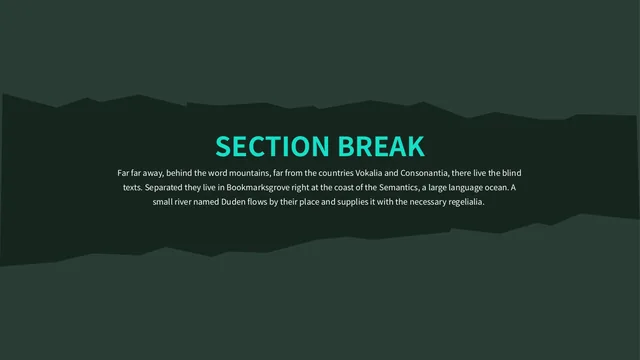
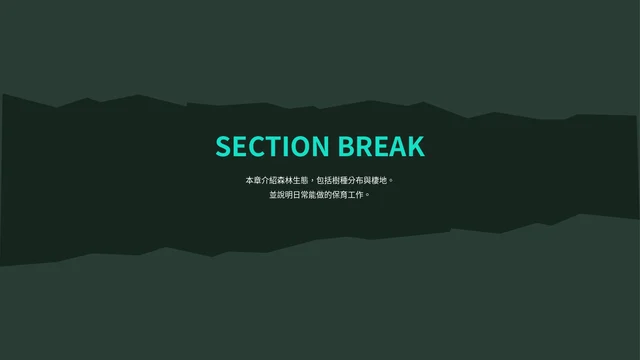
templates: 修正簡報風格庫色塊邊框、註記對齊與 P003 假字
淡色色塊加統一細邊框；材質註記改成每張卡固定一列；1280 最後一列孤卡置中；P003 縮圖假字換成繁中示範文字。

Changed region(s): [[0.1875, 0.4583, 0.8125, 0.5806]]

diff --git a/templates/index.html b/templates/index.html
@@ -1065,10 +1065,10 @@ html[data-lib=components]{scroll-padding-top:calc(var(--library-h) + var(--toc-h
 #lib-slides .ppt-cats li{font-size:0.8125rem;line-height:1.5;padding:1px 8px;border-radius:var(--r-xs);background:var(--sage-soft);color:var(--sage-deep);white-space:nowrap}
 #lib-slides .ppt-colors{display:grid;grid-template-columns:repeat(3,1fr);gap:8px;list-style:none;margin:0;padding:0}#lib-slides .ppt-colors.merged{grid-template-columns:1fr 1fr}
 #lib-slides .ppt-colors li{display:flex;flex-direction:column;gap:4px;min-width:0}
-#lib-slides .sw{height:36px;border-radius:var(--r-sm);box-shadow:inset 0 0 0 1px rgba(40,42,36,.12)}
+#lib-slides .sw{height:36px;border-radius:var(--r-sm);box-shadow:inset 0 0 0 1px rgba(0,0,0,.18)}
 #lib-slides .ppt-colors b{font-size:0.75rem;font-weight:500;color:var(--mute);line-height:1.4}
 #lib-slides .ppt-colors code{font:500 0.8125rem/1.4 var(--font);font-variant-numeric:tabular-nums;color:var(--ink)}
-#lib-slides .ppt-colors small{font-size:0.75rem;color:var(--mute);line-height:1.4;display:block;min-height:1.4em}
+#lib-slides .ppt-mat{font-size:0.75rem;color:var(--mute);line-height:1.4;min-height:1.4em;margin:0;white-space:nowrap;overflow:hidden;text-overflow:ellipsis}
 #lib-slides .ppt-info{display:flex;flex-direction:column;gap:6px;margin:0}
 #lib-slides .ppt-info div{display:flex;gap:8px;font-size:0.875rem;line-height:1.5}
 #lib-slides .ppt-info dt{flex:none;color:var(--mute)}
@@ -1076,6 +1076,7 @@ html[data-lib=components]{scroll-padding-top:calc(var(--library-h) + var(--toc-h
 @media(min-width:800px){
   #lib-slides .wrap{padding-left:max(24px,env(safe-area-inset-left));padding-right:max(24px,env(safe-area-inset-right))}
   #lib-slides .ppt-grid{grid-template-columns:repeat(3,minmax(0,1fr));gap:20px}
+  #lib-slides .ppt-card:last-child:nth-child(3n+1){grid-column:2}
 }
 </style></head><body>
 <header class="library-header library-wrap"><div class="library-heading"><div class="library-tabs-bar"><div class="library-tabs" role="tablist" aria-label="切換資料庫"><span class="library-indicator" aria-hidden="true"></span><button type="button" role="tab" id="lib-tab-templates" aria-controls="lib-templates" aria-selected="true" tabindex="0" data-library="templates"><span class="library-label" data-label="模板">模板</span></button><button type="button" role="tab" id="lib-tab-features" aria-controls="lib-features" aria-selected="false" tabindex="-1" data-library="features"><span class="library-label" data-label="功能">功能</span></button><button type="button" role="tab" id="lib-tab-components" aria-controls="lib-components" aria-selected="false" tabindex="-1" data-library="components"><span class="library-label" data-label="元件">元件</span></button><button type="button" role="tab" id="lib-tab-slides" aria-controls="lib-slides" aria-selected="false" tabindex="-1" data-library="slides"><span class="library-label" data-label="簡報">簡報</span></button></div></div><h1 id="lib-title">我喜歡的網頁模板</h1><p class="library-guide"><span class="guide-unit">模板看整頁</span>、<span class="guide-unit">功能選服務</span>、<span class="guide-unit">元件選互動</span>、<span class="guide-unit">簡報選主調</span></p></div></header>
@@ -2197,91 +2198,104 @@ html[data-lib=components]{scroll-padding-top:calc(var(--library-h) + var(--toc-h
     <div class="ppt-thumbs"><img src="ppt-styles/P001-cover.webp" width="640" height="360" loading="lazy" alt="黑板風封面縮圖"><img src="ppt-styles/P001-inner.webp" width="640" height="360" loading="lazy" alt="黑板風內頁縮圖"></div>
     <h2>黑板風<span class="code">P001-黑板風</span></h2>
     <ul class="ppt-cats" aria-label="適合類別"><li>學習教材</li><li>產品或網站介紹</li></ul>
-    <ul class="ppt-colors" aria-label="三個色碼"><li><span class="sw" style="background:#F5F5F0"></span><b>主色</b><code>#F5F5F0</code><small></small></li><li><span class="sw" style="background:#FAE46E"></span><b>強調色</b><code>#FAE46E</code><small></small></li><li><span class="sw" style="background:#304241"></span><b>底色</b><code>#304241</code><small>黑板照片</small></li></ul>
+    <ul class="ppt-colors" aria-label="三個色碼"><li><span class="sw" style="background:#F5F5F0"></span><b>主色</b><code>#F5F5F0</code></li><li><span class="sw" style="background:#FAE46E"></span><b>強調色</b><code>#FAE46E</code></li><li><span class="sw" style="background:#304241"></span><b>底色</b><code>#304241</code></li></ul>
+    <p class="ppt-mat">黑板照片</p>
     <dl class="ppt-info"><div><dt>字型</dt><dd>霞鶩文楷 TC・可內嵌（目前未內嵌）</dd></div><div><dt>版型</dt><dd><span class="nw">封面</span>、<span class="nw">清單</span>、<span class="nw">大數字</span>、<span class="nw">圖文</span>、<span class="nw">收尾</span></dd></div><div><dt>用過</dt><dd>會考複習網站介紹</dd></div></dl>
   </li>
   <li class="ppt-card">
     <div class="ppt-thumbs"><img src="ppt-styles/P002-cover.webp" width="640" height="360" loading="lazy" alt="藍金封面縮圖"><img src="ppt-styles/P002-inner.webp" width="640" height="360" loading="lazy" alt="藍金內頁縮圖"></div>
     <h2>藍金<span class="code">P002-藍金</span></h2>
     <ul class="ppt-cats" aria-label="適合類別"><li>家人朋友介紹／生活</li><li>產品或網站介紹</li></ul>
-    <ul class="ppt-colors merged" aria-label="色碼"><li><span class="sw" style="background:#0D1A33"></span><b>主色＝底色</b><code>#0D1A33</code><small></small></li><li><span class="sw" style="background:#F2B33D"></span><b>強調色</b><code>#F2B33D</code><small></small></li></ul>
+    <ul class="ppt-colors merged" aria-label="色碼"><li><span class="sw" style="background:#0D1A33"></span><b>主色＝底色</b><code>#0D1A33</code></li><li><span class="sw" style="background:#F2B33D"></span><b>強調色</b><code>#F2B33D</code></li></ul>
+    <p class="ppt-mat"></p>
     <dl class="ppt-info"><div><dt>字型</dt><dd>標題 Noto Serif CJK TC，內文 Noto Sans CJK TC・可內嵌（目前未內嵌）</dd></div><div><dt>版型</dt><dd><span class="nw">封面</span>、<span class="nw">目錄</span>、<span class="nw">圖文</span>、<span class="nw">清單</span>、<span class="nw">大數字</span>、<span class="nw">大標語</span>、<span class="nw">收尾</span></dd></div><div><dt>用過</dt><dd>TERRA 介紹（製作中）</dd></div></dl>
   </li>
   <li class="ppt-card">
     <div class="ppt-thumbs"><img src="ppt-styles/P003-cover.webp" width="640" height="360" loading="lazy" alt="森林青綠封面縮圖"><img src="ppt-styles/P003-inner.webp" width="640" height="360" loading="lazy" alt="森林青綠內頁縮圖"></div>
     <h2>森林青綠<span class="code">P003-森林青綠</span></h2>
     <ul class="ppt-cats" aria-label="適合類別"><li>家人朋友介紹／生活</li><li>活動或宣傳</li><li>產品或網站介紹</li></ul>
-    <ul class="ppt-colors merged" aria-label="色碼"><li><span class="sw" style="background:#16261F"></span><b>主色＝底色</b><code>#16261F</code><small></small></li><li><span class="sw" style="background:#14E0C8"></span><b>強調色</b><code>#14E0C8</code><small></small></li></ul>
+    <ul class="ppt-colors merged" aria-label="色碼"><li><span class="sw" style="background:#16261F"></span><b>主色＝底色</b><code>#16261F</code></li><li><span class="sw" style="background:#14E0C8"></span><b>強調色</b><code>#14E0C8</code></li></ul>
+    <p class="ppt-mat"></p>
     <dl class="ppt-info"><div><dt>字型</dt><dd>Noto Sans CJK TC・可內嵌（目前未內嵌）</dd></div><div><dt>版型</dt><dd><span class="nw">封面</span>、<span class="nw">圖文</span>、<span class="nw">清單</span>、<span class="nw">圖表</span>、<span class="nw">大數字</span>、<span class="nw">表格</span>、<span class="nw">收尾</span></dd></div><div><dt>用過</dt><dd>TERRA 候選，未採用</dd></div></dl>
   </li>
   <li class="ppt-card">
     <div class="ppt-thumbs"><img src="ppt-styles/P004-cover.webp" width="640" height="360" loading="lazy" alt="Vega 多彩動畫封面縮圖"><img src="ppt-styles/P004-inner.webp" width="640" height="360" loading="lazy" alt="Vega 多彩動畫內頁縮圖"></div>
     <h2>Vega 多彩動畫<span class="code">P004-Vega多彩</span></h2>
     <ul class="ppt-cats" aria-label="適合類別"><li>產品或網站介紹</li><li>活動或宣傳</li></ul>
-    <ul class="ppt-colors" aria-label="三個色碼"><li><span class="sw" style="background:#08ABDD"></span><b>主色</b><code>#08ABDD</code><small></small></li><li><span class="sw" style="background:#FC4A7E"></span><b>強調色</b><code>#FC4A7E</code><small></small></li><li><span class="sw" style="background:#F7F7F7"></span><b>底色</b><code>#F7F7F7</code><small></small></li></ul>
+    <ul class="ppt-colors" aria-label="三個色碼"><li><span class="sw" style="background:#08ABDD"></span><b>主色</b><code>#08ABDD</code></li><li><span class="sw" style="background:#FC4A7E"></span><b>強調色</b><code>#FC4A7E</code></li><li><span class="sw" style="background:#F7F7F7"></span><b>底色</b><code>#F7F7F7</code></li></ul>
+    <p class="ppt-mat"></p>
     <dl class="ppt-info"><div><dt>字型</dt><dd>Noto Sans CJK TC・可內嵌</dd></div><div><dt>版型</dt><dd><span class="nw">封面</span>、<span class="nw">目錄</span>、<span class="nw">圖文</span>、<span class="nw">清單</span>、<span class="nw">大標語</span></dd></div><div><dt>用過</dt><dd>還沒用過</dd></div></dl>
   </li>
   <li class="ppt-card">
     <div class="ppt-thumbs"><img src="ppt-styles/P005-cover.webp" width="640" height="360" loading="lazy" alt="Procyon 深藍質感封面縮圖"><img src="ppt-styles/P005-inner.webp" width="640" height="360" loading="lazy" alt="Procyon 深藍質感內頁縮圖"></div>
     <h2>Procyon 深藍質感<span class="code">P005-Procyon深藍</span></h2>
     <ul class="ppt-cats" aria-label="適合類別"><li>工作報告／數據</li><li>產品或網站介紹</li></ul>
-    <ul class="ppt-colors" aria-label="三個色碼"><li><span class="sw" style="background:#17588F"></span><b>主色</b><code>#17588F</code><small></small></li><li><span class="sw" style="background:#89B5DC"></span><b>強調色</b><code>#89B5DC</code><small></small></li><li><span class="sw" style="background:#153053"></span><b>底色</b><code>#153053</code><small></small></li></ul>
+    <ul class="ppt-colors" aria-label="三個色碼"><li><span class="sw" style="background:#17588F"></span><b>主色</b><code>#17588F</code></li><li><span class="sw" style="background:#89B5DC"></span><b>強調色</b><code>#89B5DC</code></li><li><span class="sw" style="background:#153053"></span><b>底色</b><code>#153053</code></li></ul>
+    <p class="ppt-mat"></p>
     <dl class="ppt-info"><div><dt>字型</dt><dd>Noto Sans CJK TC・可內嵌</dd></div><div><dt>版型</dt><dd><span class="nw">封面</span>、<span class="nw">清單</span>、<span class="nw">圖示列</span>、<span class="nw">圖文</span>、<span class="nw">相片牆</span></dd></div><div><dt>用過</dt><dd>還沒用過</dd></div></dl>
   </li>
   <li class="ppt-card">
     <div class="ppt-thumbs"><img src="ppt-styles/P006-cover.webp" width="640" height="360" loading="lazy" alt="Canopus 霧面圓窗封面縮圖"><img src="ppt-styles/P006-inner.webp" width="640" height="360" loading="lazy" alt="Canopus 霧面圓窗內頁縮圖"></div>
     <h2>Canopus 霧面圓窗<span class="code">P006-Canopus霧面</span></h2>
     <ul class="ppt-cats" aria-label="適合類別"><li>家人朋友介紹／生活</li><li>工作報告／數據</li></ul>
-    <ul class="ppt-colors" aria-label="三個色碼"><li><span class="sw" style="background:#9DA079"></span><b>主色</b><code>#9DA079</code><small></small></li><li><span class="sw" style="background:#F9FCF7"></span><b>強調色</b><code>#F9FCF7</code><small>圓窗</small></li><li><span class="sw" style="background:#D5E5CA"></span><b>底色</b><code>#D5E5CA</code><small></small></li></ul>
+    <ul class="ppt-colors" aria-label="三個色碼"><li><span class="sw" style="background:#9DA079"></span><b>主色</b><code>#9DA079</code></li><li><span class="sw" style="background:#F9FCF7"></span><b>強調色</b><code>#F9FCF7</code></li><li><span class="sw" style="background:#D5E5CA"></span><b>底色</b><code>#D5E5CA</code></li></ul>
+    <p class="ppt-mat">圓窗</p>
     <dl class="ppt-info"><div><dt>字型</dt><dd>Noto Sans CJK TC・可內嵌</dd></div><div><dt>版型</dt><dd><span class="nw">封面</span>、<span class="nw">目錄</span>、<span class="nw">圖文</span>、<span class="nw">組織圖</span>、<span class="nw">大標語</span></dd></div><div><dt>用過</dt><dd>還沒用過</dd></div></dl>
   </li>
   <li class="ppt-card">
     <div class="ppt-thumbs"><img src="ppt-styles/P007-cover.webp" width="640" height="360" loading="lazy" alt="Sirius 清爽時間軸封面縮圖"><img src="ppt-styles/P007-inner.webp" width="640" height="360" loading="lazy" alt="Sirius 清爽時間軸內頁縮圖"></div>
     <h2>Sirius 清爽時間軸<span class="code">P007-Sirius時間軸</span></h2>
     <ul class="ppt-cats" aria-label="適合類別"><li>學習教材</li><li>工作報告／數據</li></ul>
-    <ul class="ppt-colors" aria-label="三個色碼"><li><span class="sw" style="background:#0596BB"></span><b>主色</b><code>#0596BB</code><small></small></li><li><span class="sw" style="background:#82BDCD"></span><b>強調色</b><code>#82BDCD</code><small></small></li><li><span class="sw" style="background:#FFFFFF"></span><b>底色</b><code>#FFFFFF</code><small></small></li></ul>
+    <ul class="ppt-colors" aria-label="三個色碼"><li><span class="sw" style="background:#0596BB"></span><b>主色</b><code>#0596BB</code></li><li><span class="sw" style="background:#82BDCD"></span><b>強調色</b><code>#82BDCD</code></li><li><span class="sw" style="background:#FFFFFF"></span><b>底色</b><code>#FFFFFF</code></li></ul>
+    <p class="ppt-mat"></p>
     <dl class="ppt-info"><div><dt>字型</dt><dd>Noto Sans CJK TC・可內嵌</dd></div><div><dt>版型</dt><dd><span class="nw">封面</span>、<span class="nw">清單</span>、<span class="nw">時間軸</span>、<span class="nw">圖文</span>、<span class="nw">大數字</span></dd></div><div><dt>用過</dt><dd>還沒用過</dd></div></dl>
   </li>
   <li class="ppt-card">
     <div class="ppt-thumbs"><img src="ppt-styles/P008-cover.webp" width="640" height="360" loading="lazy" alt="日式和風封面縮圖"><img src="ppt-styles/P008-inner.webp" width="640" height="360" loading="lazy" alt="日式和風內頁縮圖"></div>
     <h2>日式和風<span class="code">P008-日式和風</span></h2>
     <ul class="ppt-cats" aria-label="適合類別"><li>家人朋友介紹／生活</li><li>活動或宣傳</li></ul>
-    <ul class="ppt-colors" aria-label="三個色碼"><li><span class="sw" style="background:#AF4744"></span><b>主色</b><code>#AF4744</code><small></small></li><li><span class="sw" style="background:#4F6D76"></span><b>強調色</b><code>#4F6D76</code><small>浪紋</small></li><li><span class="sw" style="background:#F0F1F0"></span><b>底色</b><code>#F0F1F0</code><small></small></li></ul>
+    <ul class="ppt-colors" aria-label="三個色碼"><li><span class="sw" style="background:#AF4744"></span><b>主色</b><code>#AF4744</code></li><li><span class="sw" style="background:#4F6D76"></span><b>強調色</b><code>#4F6D76</code></li><li><span class="sw" style="background:#F0F1F0"></span><b>底色</b><code>#F0F1F0</code></li></ul>
+    <p class="ppt-mat">浪紋</p>
     <dl class="ppt-info"><div><dt>字型</dt><dd>標題 Noto Serif CJK TC，內文 Noto Sans CJK TC・可內嵌</dd></div><div><dt>版型</dt><dd><span class="nw">封面</span>、<span class="nw">目錄</span>、<span class="nw">分節</span>、<span class="nw">圖文</span>、<span class="nw">清單</span></dd></div><div><dt>用過</dt><dd>還沒用過</dd></div></dl>
   </li>
   <li class="ppt-card">
     <div class="ppt-thumbs"><img src="ppt-styles/P009-cover.webp" width="640" height="360" loading="lazy" alt="手繪工作匯報封面縮圖"><img src="ppt-styles/P009-inner.webp" width="640" height="360" loading="lazy" alt="手繪工作匯報內頁縮圖"></div>
     <h2>手繪工作匯報<span class="code">P009-手繪匯報</span></h2>
     <ul class="ppt-cats" aria-label="適合類別"><li>工作報告／數據</li></ul>
-    <ul class="ppt-colors" aria-label="三個色碼"><li><span class="sw" style="background:#343433"></span><b>主色</b><code>#343433</code><small>手繪線</small></li><li><span class="sw" style="background:#F9E8B7"></span><b>強調色</b><code>#F9E8B7</code><small></small></li><li><span class="sw" style="background:#F2F3F3"></span><b>底色</b><code>#F2F3F3</code><small></small></li></ul>
+    <ul class="ppt-colors" aria-label="三個色碼"><li><span class="sw" style="background:#343433"></span><b>主色</b><code>#343433</code></li><li><span class="sw" style="background:#F9E8B7"></span><b>強調色</b><code>#F9E8B7</code></li><li><span class="sw" style="background:#F2F3F3"></span><b>底色</b><code>#F2F3F3</code></li></ul>
+    <p class="ppt-mat">手繪線</p>
     <dl class="ppt-info"><div><dt>字型</dt><dd>Noto Sans CJK TC・可內嵌</dd></div><div><dt>版型</dt><dd><span class="nw">封面</span>、<span class="nw">目錄</span>、<span class="nw">清單</span>、<span class="nw">圖表</span>、<span class="nw">流程</span></dd></div><div><dt>用過</dt><dd>還沒用過</dd></div></dl>
   </li>
   <li class="ppt-card">
     <div class="ppt-thumbs"><img src="ppt-styles/P010-cover.webp" width="640" height="360" loading="lazy" alt="熱氣球教學課件封面縮圖"><img src="ppt-styles/P010-inner.webp" width="640" height="360" loading="lazy" alt="熱氣球教學課件內頁縮圖"></div>
     <h2>熱氣球教學課件<span class="code">P010-熱氣球教學</span></h2>
     <ul class="ppt-cats" aria-label="適合類別"><li>學習教材</li></ul>
-    <ul class="ppt-colors" aria-label="三個色碼"><li><span class="sw" style="background:#8EAE9F"></span><b>主色</b><code>#8EAE9F</code><small></small></li><li><span class="sw" style="background:#EB872A"></span><b>強調色</b><code>#EB872A</code><small></small></li><li><span class="sw" style="background:#FAEED6"></span><b>底色</b><code>#FAEED6</code><small></small></li></ul>
+    <ul class="ppt-colors" aria-label="三個色碼"><li><span class="sw" style="background:#8EAE9F"></span><b>主色</b><code>#8EAE9F</code></li><li><span class="sw" style="background:#EB872A"></span><b>強調色</b><code>#EB872A</code></li><li><span class="sw" style="background:#FAEED6"></span><b>底色</b><code>#FAEED6</code></li></ul>
+    <p class="ppt-mat"></p>
     <dl class="ppt-info"><div><dt>字型</dt><dd>標題 Noto Serif CJK TC，內文 Noto Sans CJK TC・可內嵌</dd></div><div><dt>版型</dt><dd><span class="nw">封面</span>、<span class="nw">目錄</span>、<span class="nw">分節</span>、<span class="nw">圖文</span>、<span class="nw">圖表</span></dd></div><div><dt>用過</dt><dd>還沒用過</dd></div></dl>
   </li>
   <li class="ppt-card">
     <div class="ppt-thumbs"><img src="ppt-styles/P011-cover.webp" width="640" height="360" loading="lazy" alt="深藍粒子科技封面縮圖"><img src="ppt-styles/P011-inner.webp" width="640" height="360" loading="lazy" alt="深藍粒子科技內頁縮圖"></div>
     <h2>深藍粒子科技<span class="code">P011-深藍粒子</span></h2>
     <ul class="ppt-cats" aria-label="適合類別"><li>產品或網站介紹</li><li>工作報告／數據</li></ul>
-    <ul class="ppt-colors merged" aria-label="色碼"><li><span class="sw" style="background:#08192D"></span><b>主色＝底色</b><code>#08192D</code><small></small></li><li><span class="sw" style="background:#79D1EE"></span><b>強調色</b><code>#79D1EE</code><small></small></li></ul>
+    <ul class="ppt-colors merged" aria-label="色碼"><li><span class="sw" style="background:#08192D"></span><b>主色＝底色</b><code>#08192D</code></li><li><span class="sw" style="background:#79D1EE"></span><b>強調色</b><code>#79D1EE</code></li></ul>
+    <p class="ppt-mat"></p>
     <dl class="ppt-info"><div><dt>字型</dt><dd>Noto Sans CJK TC・可內嵌</dd></div><div><dt>版型</dt><dd><span class="nw">封面</span>、<span class="nw">目錄</span>、<span class="nw">分節</span>、<span class="nw">圖文</span>、<span class="nw">圖表</span></dd></div><div><dt>用過</dt><dd>還沒用過</dd></div></dl>
   </li>
   <li class="ppt-card">
     <div class="ppt-thumbs"><img src="ppt-styles/P012-cover.webp" width="640" height="360" loading="lazy" alt="Slidev 網頁簡報封面縮圖"><img src="ppt-styles/P012-inner.webp" width="640" height="360" loading="lazy" alt="Slidev 網頁簡報內頁縮圖"></div>
     <h2>Slidev 網頁簡報<span class="code">P012-Slidev網頁</span></h2>
     <ul class="ppt-cats" aria-label="適合類別"><li>產品或網站介紹</li><li>學習教材</li></ul>
-    <ul class="ppt-colors" aria-label="三個色碼"><li><span class="sw" style="background:#201817"></span><b>主色</b><code>#201817</code><small></small></li><li><span class="sw" style="background:#613B21"></span><b>強調色</b><code>#613B21</code><small>封面照片</small></li><li><span class="sw" style="background:#FFFFFF"></span><b>底色</b><code>#FFFFFF</code><small></small></li></ul>
+    <ul class="ppt-colors" aria-label="三個色碼"><li><span class="sw" style="background:#201817"></span><b>主色</b><code>#201817</code></li><li><span class="sw" style="background:#613B21"></span><b>強調色</b><code>#613B21</code></li><li><span class="sw" style="background:#FFFFFF"></span><b>底色</b><code>#FFFFFF</code></li></ul>
+    <p class="ppt-mat">封面照片</p>
     <dl class="ppt-info"><div><dt>字型</dt><dd>Noto Sans CJK TC・可內嵌（網頁字型）</dd></div><div><dt>版型</dt><dd><span class="nw">封面</span>、<span class="nw">圖文</span>、<span class="nw">雙欄</span>、<span class="nw">程式碼</span>、<span class="nw">逐步出現</span></dd></div><div><dt>用過</dt><dd>還沒用過</dd></div></dl>
   </li>
   <li class="ppt-card">
     <div class="ppt-thumbs"><img src="ppt-styles/P013-cover.webp" width="640" height="360" loading="lazy" alt="生日祝福故事板封面縮圖"><img src="ppt-styles/P013-inner.webp" width="640" height="360" loading="lazy" alt="生日祝福故事板內頁縮圖"></div>
     <h2>生日祝福故事板<span class="code">P013-生日故事板</span></h2>
     <ul class="ppt-cats" aria-label="適合類別"><li>活動或宣傳</li><li>家人朋友介紹／生活</li></ul>
-    <ul class="ppt-colors" aria-label="三個色碼"><li><span class="sw" style="background:#F8A3A5"></span><b>主色</b><code>#F8A3A5</code><small></small></li><li><span class="sw" style="background:#DA432D"></span><b>強調色</b><code>#DA432D</code><small></small></li><li><span class="sw" style="background:#FEF9F6"></span><b>底色</b><code>#FEF9F6</code><small></small></li></ul>
+    <ul class="ppt-colors" aria-label="三個色碼"><li><span class="sw" style="background:#F8A3A5"></span><b>主色</b><code>#F8A3A5</code></li><li><span class="sw" style="background:#DA432D"></span><b>強調色</b><code>#DA432D</code></li><li><span class="sw" style="background:#FEF9F6"></span><b>底色</b><code>#FEF9F6</code></li></ul>
+    <p class="ppt-mat"></p>
     <dl class="ppt-info"><div><dt>字型</dt><dd>Noto Sans CJK TC・可內嵌</dd></div><div><dt>版型</dt><dd><span class="nw">封面</span>、<span class="nw">清單</span>、<span class="nw">圖文</span>、<span class="nw">相片</span>、<span class="nw">時間軸</span>、<span class="nw">收尾</span></dd></div><div><dt>用過</dt><dd>還沒用過</dd></div></dl>
   </li>
 </ul>
